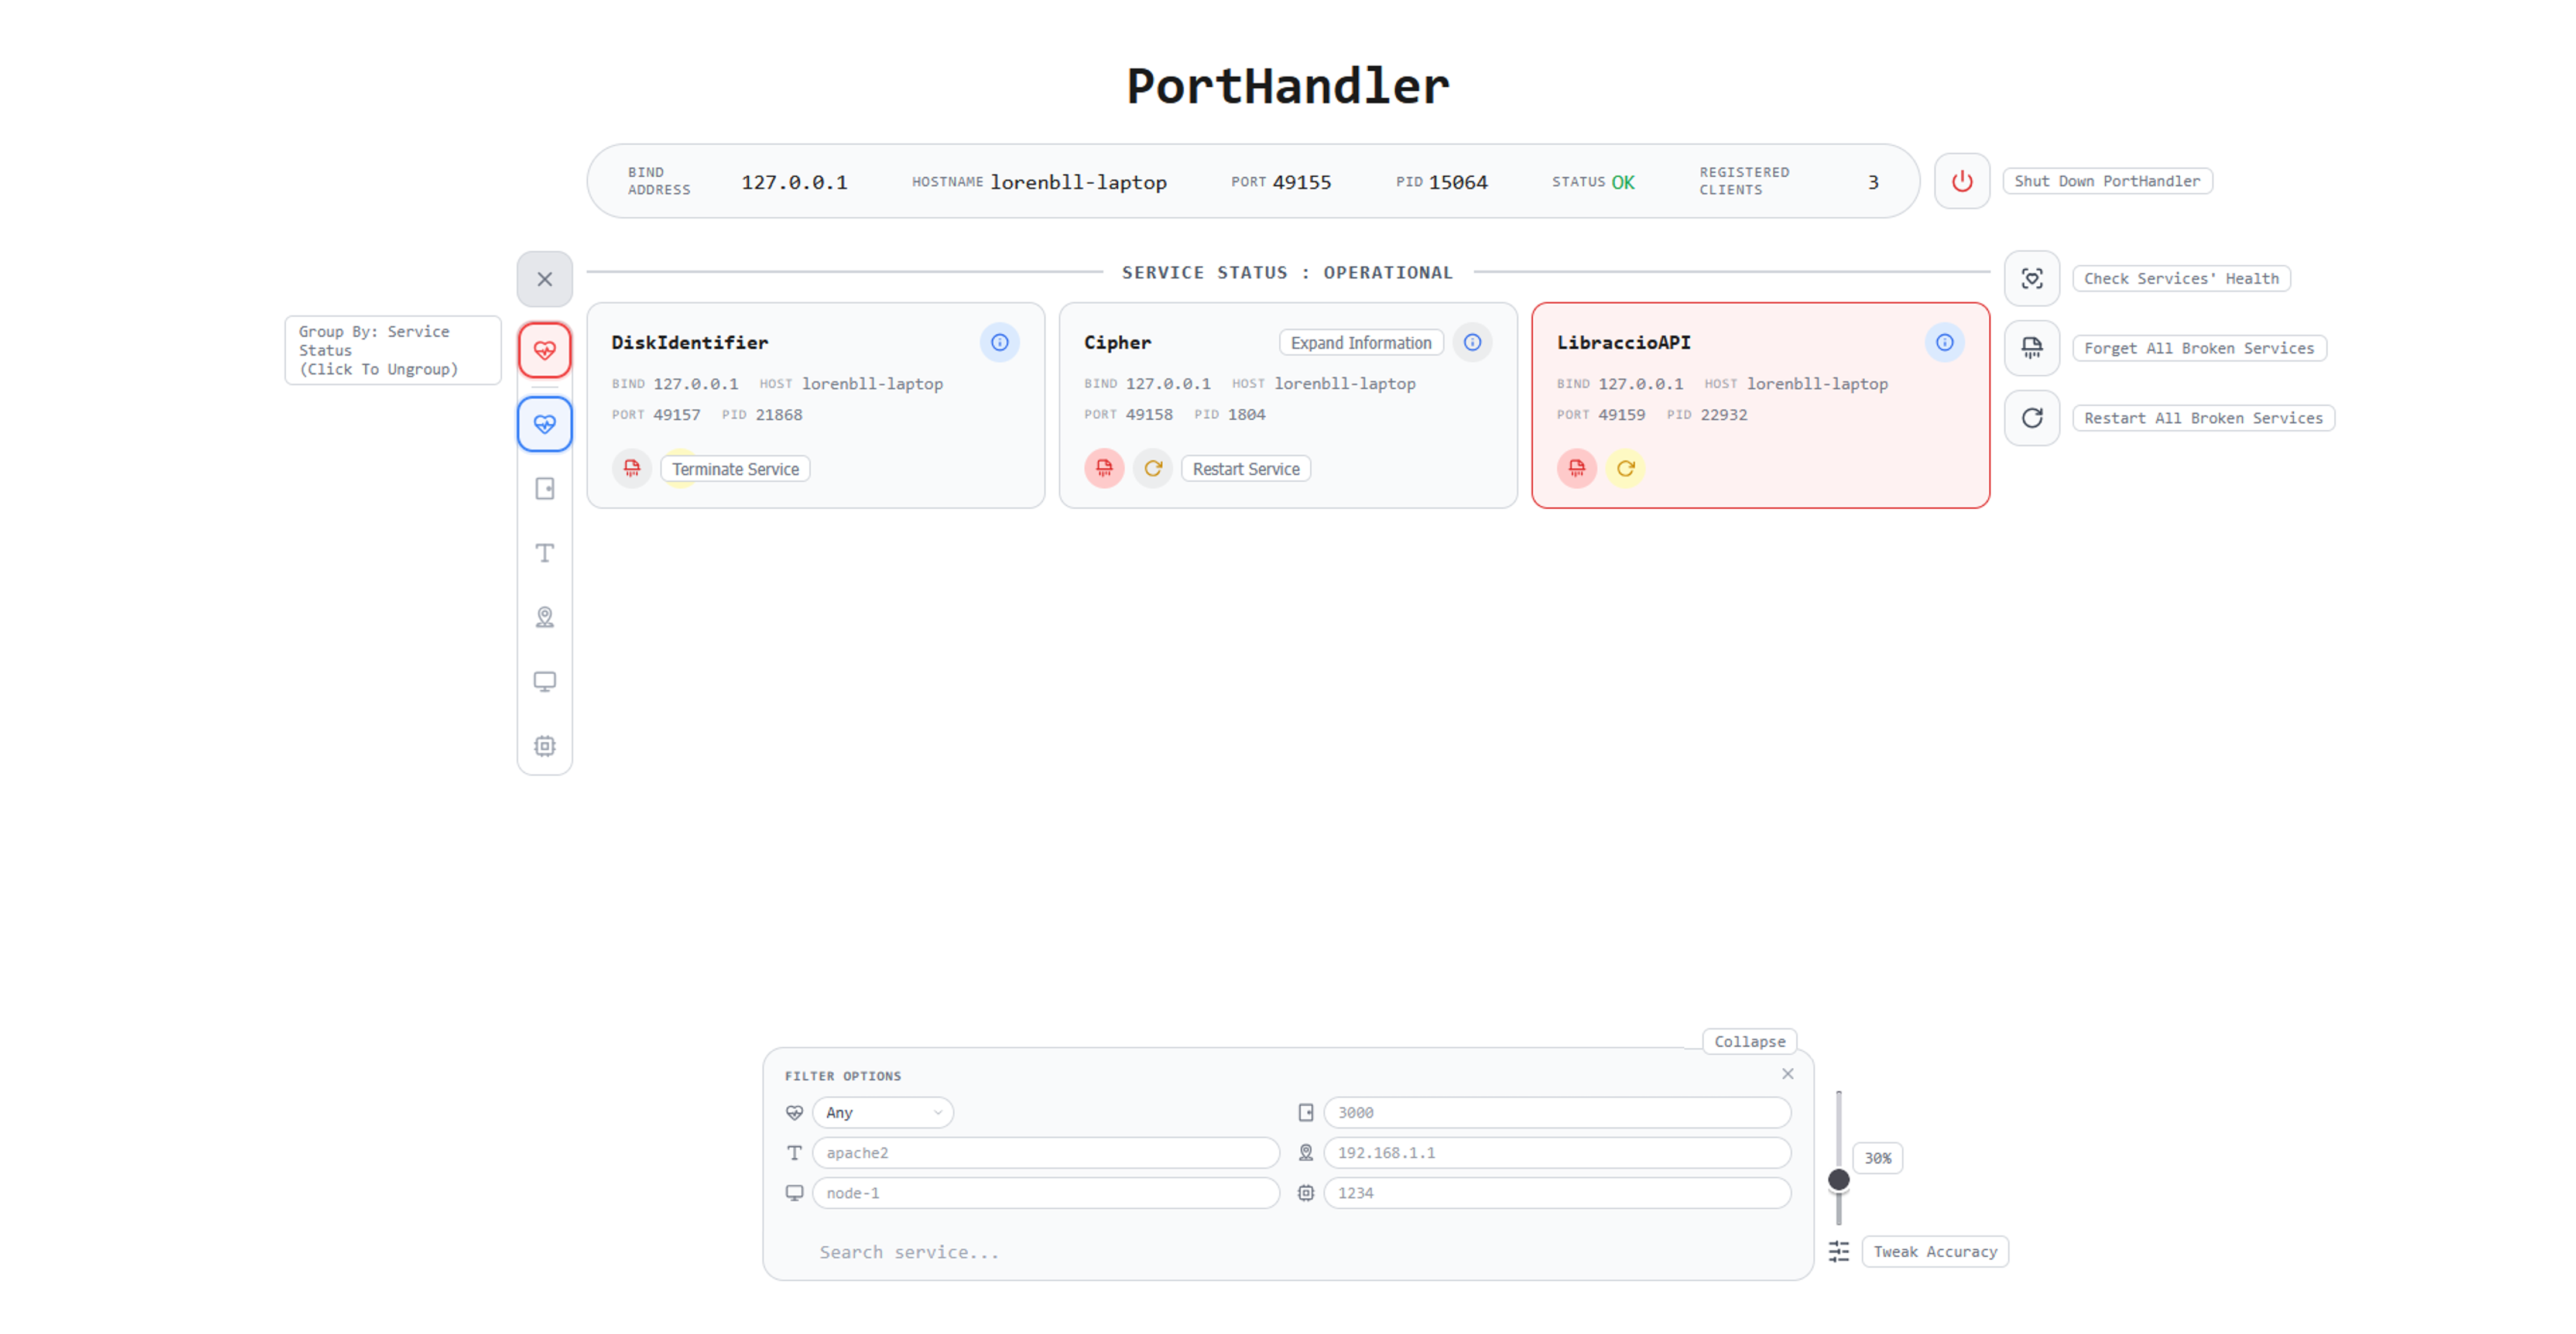
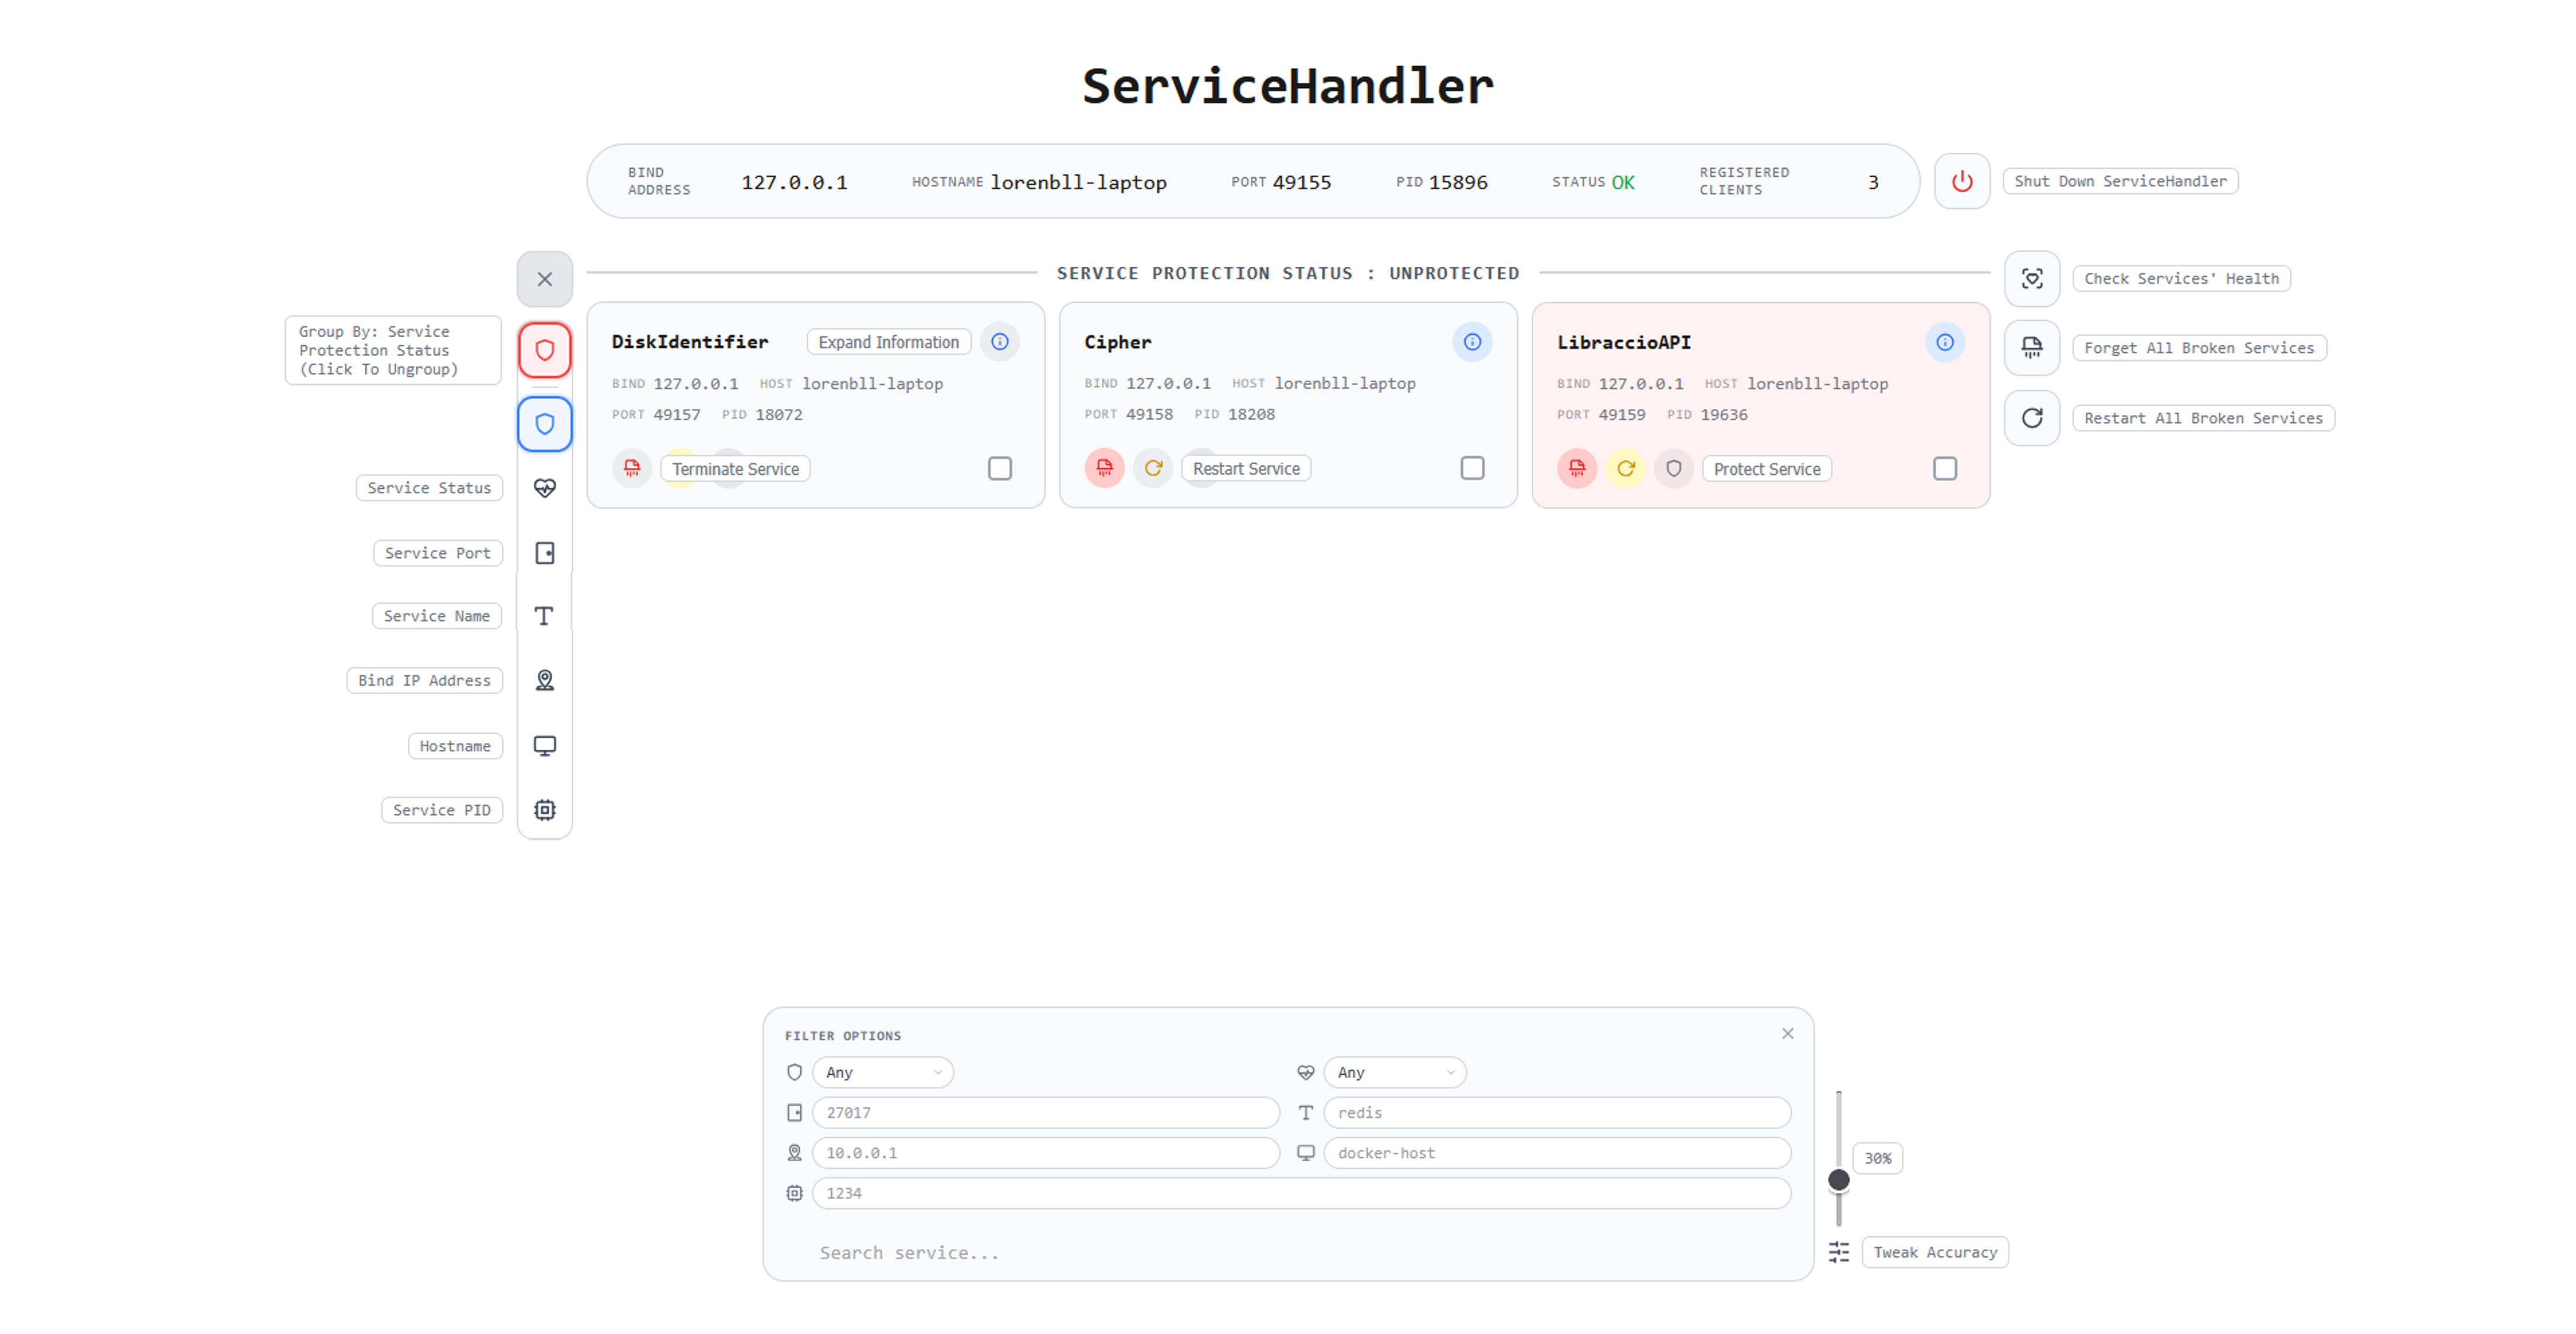
fix: set all tooltip z-index to max integer value, fix schema tooltip clipping
- Changed all tooltip z-index from 99999 to 2147483647 (max safe integer)
- Changed schema button tooltips from above to below button placement to avoid overflow:auto clipping

diff --git a/ui/css/style.css b/ui/css/style.css
@@ -176,7 +176,7 @@ body.has-error::before {
     padding: 2px 8px;
     border-radius: 6px;
     pointer-events: none;
-    z-index: 99999;
+    z-index: 2147483647;
     text-transform: capitalize;
 }
 
@@ -236,7 +236,7 @@ body.has-error::before {
     padding: 2px 8px;
     border-radius: 6px;
     pointer-events: none;
-    z-index: 99999;
+    z-index: 2147483647;
     text-transform: capitalize;
 }
 
@@ -422,7 +422,7 @@ body.has-error::before {
     padding: 2px 8px;
     border-radius: 6px;
     pointer-events: none;
-    z-index: 99999;
+    z-index: 2147483647;
     text-transform: capitalize;
 }
 
@@ -441,7 +441,7 @@ body.has-error::before {
     padding: 4px 10px;
     border-radius: 6px;
     pointer-events: none;
-    z-index: 99999;
+    z-index: 2147483647;
     text-transform: capitalize;
     min-width: 140px;
     opacity: 0;
@@ -465,7 +465,7 @@ body.has-error::before {
     padding: 2px 8px;
     border-radius: 6px;
     pointer-events: none;
-    z-index: 99999;
+    z-index: 2147483647;
     text-transform: capitalize;
 }
 
@@ -739,8 +739,8 @@ body.has-error::before {
     position: absolute;
     left: 50%;
     right: auto;
-    top: auto;
-    bottom: calc(100% + 6px);
+    top: calc(100% + 6px);
+    bottom: auto;
     transform: translateX(-50%);
     white-space: nowrap;
     font-size: 0.75rem;
@@ -751,7 +751,7 @@ body.has-error::before {
     padding: 2px 8px;
     border-radius: 6px;
     pointer-events: none;
-    z-index: 99999;
+    z-index: 2147483647;
 }
 
 
@@ -1105,7 +1105,7 @@ body.has-error::before {
     padding: 2px 8px;
     border-radius: 6px;
     pointer-events: none;
-    z-index: 99999;
+    z-index: 2147483647;
 }
 
 .card-btn-blue:hover::after {
@@ -1338,7 +1338,7 @@ body.has-error::before {
     padding: 2px 8px;
     border-radius: 6px;
     pointer-events: none;
-    z-index: 99999;
+    z-index: 2147483647;
 }
 
 .search-bar.expanded-vertical .search-toggle:hover::after {
@@ -1355,7 +1355,7 @@ body.has-error::before {
     padding: 2px 8px;
     border-radius: 6px;
     pointer-events: none;
-    z-index: 99999;
+    z-index: 2147483647;
 }
 
 .search-toggle svg {
@@ -1486,7 +1486,7 @@ body.has-error::before {
     padding: 4px 8px;
     border-radius: 6px;
     pointer-events: none;
-    z-index: 99999;
+    z-index: 2147483647;
 }
 
 .filter-tweak-reset {
@@ -1529,7 +1529,7 @@ body.has-error::before {
     padding: 4px 8px;
     border-radius: 6px;
     pointer-events: none;
-    z-index: 99999;
+    z-index: 2147483647;
 }
 
 .filter-tweak-slider-wrap {
@@ -1556,7 +1556,7 @@ body.has-error::before {
     padding: 4px 8px;
     border-radius: 6px;
     pointer-events: none;
-    z-index: 99999;
+    z-index: 2147483647;
 }
 
 .filter-tweak.active .filter-tweak-slider-wrap,
@@ -1662,7 +1662,7 @@ body.has-error::before {
     padding: 2px 8px;
     border-radius: 6px;
     pointer-events: none;
-    z-index: 99999;
+    z-index: 2147483647;
     text-transform: capitalize;
 }
 
@@ -1849,7 +1849,7 @@ body.checkbox-active .service-card .card-btn-blue {
     gap: 10px;
     opacity: 0;
     pointer-events: none;
-    z-index: 99999;
+    z-index: 2147483647;
     transition: opacity 0.15s ease;
 }
 